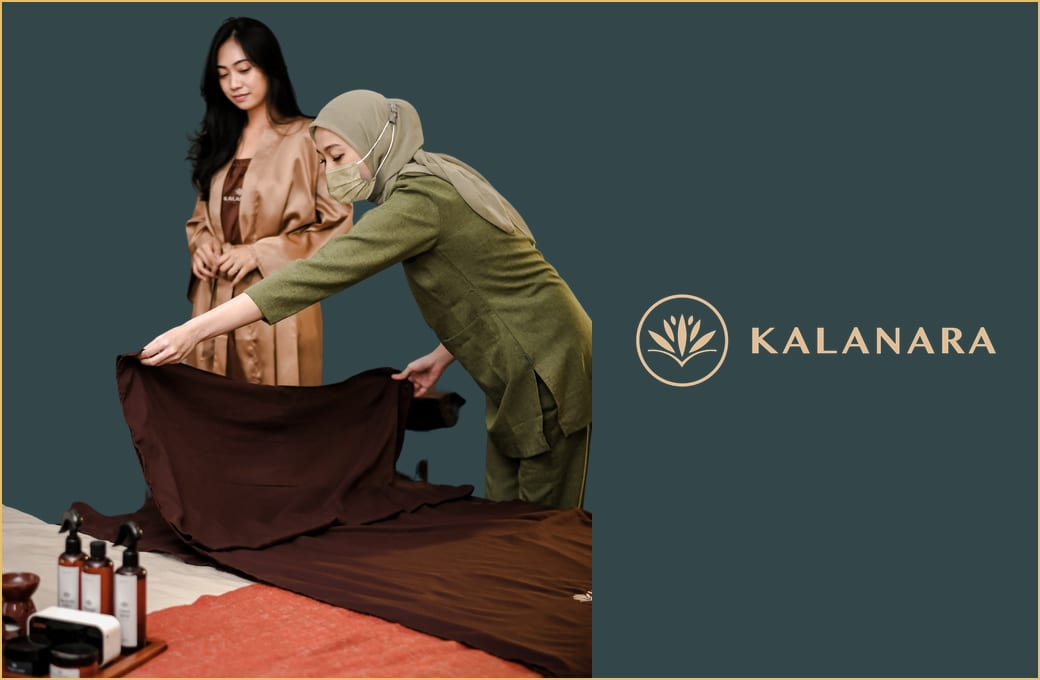
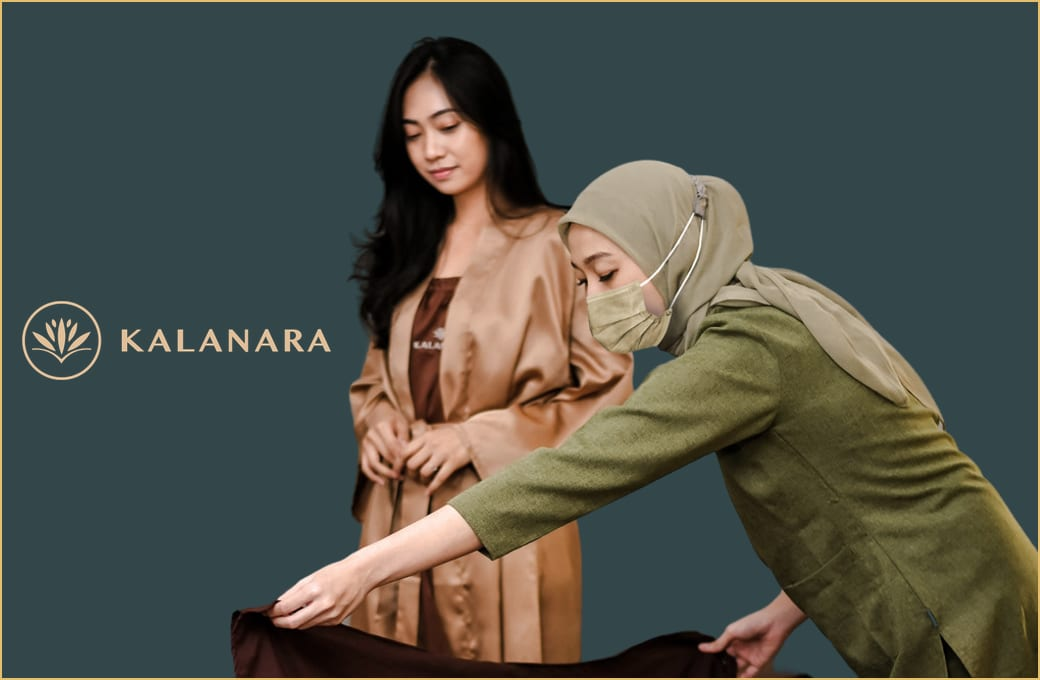
fix: match the voucher email to the latest canvas design (#37)
- Render the hero again with the new layout: logo on the left, a larger
  cropped photo on the right.
- Remove the "Your voucher PDF is attached" box and its paperclip icon.
  The canvas no longer has it, and the Download PDF button and the
  attachment stay.

diff --git a/app/api/email/send-voucher/route.ts b/app/api/email/send-voucher/route.ts
@@ -271,28 +271,6 @@ export async function POST(request: NextRequest) {
               : ""
           }
 
-          <!-- Attachment note -->
-          <tr>
-            <td style="padding: ${senderMessage ? "0" : "48px"} 40px 48px;">
-              <table role="presentation" cellspacing="0" cellpadding="0" border="0" width="100%" style="background-color: #fbfbfb; border: 1px solid #dbdbdb; border-radius: 12px;">
-                <tr>
-                  <td width="36" style="padding: 16px 0 16px 20px;">
-                    <table role="presentation" cellspacing="0" cellpadding="0" border="0">
-                      <tr>
-                        <td width="36" height="36" style="background-color: #243a3e; border-radius: 18px; text-align: center;">
-                          <img src="${emailAsset("icon-paperclip-gold-light.png")}" width="16" height="16" alt="" style="display: inline-block; vertical-align: middle; border: 0;">
-                        </td>
-                      </tr>
-                    </table>
-                  </td>
-                  <td style="padding: 16px 20px 16px 12px; color: #243a3e; font-size: 14px; line-height: 1.5;">
-                    Your voucher PDF is attached to this email.
-                  </td>
-                </tr>
-              </table>
-            </td>
-          </tr>
-
           <!-- How to redeem -->
           <tr>
             <td style="background-color: #fbfbfb; border-top: 1px solid #dbdbdb; padding: 44px 40px; text-align: center;">

diff --git a/app/api/email/send-voucher/route.test.ts b/app/api/email/send-voucher/route.test.ts
@@ -196,7 +196,6 @@ describe("POST /api/email/send-voucher", () => {
     });
 
     const payload = resendSendMock.mock.calls[0][0];
-    expect(payload.html).toContain("Your voucher PDF is attached to this email.");
     expect(payload.html).not.toContain("Jl. Raya Ubud");
     expect(payload.attachments).toEqual([
       {
